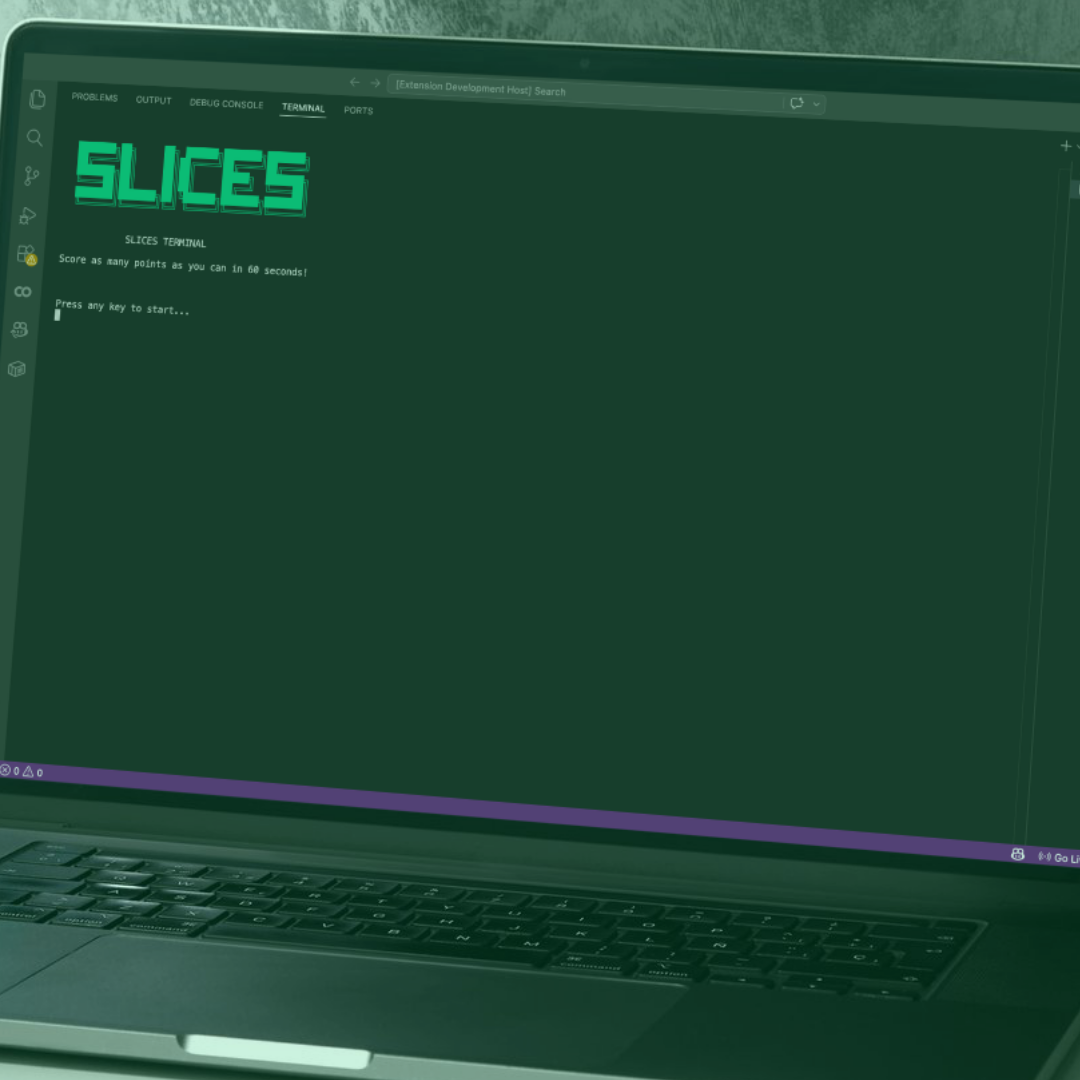
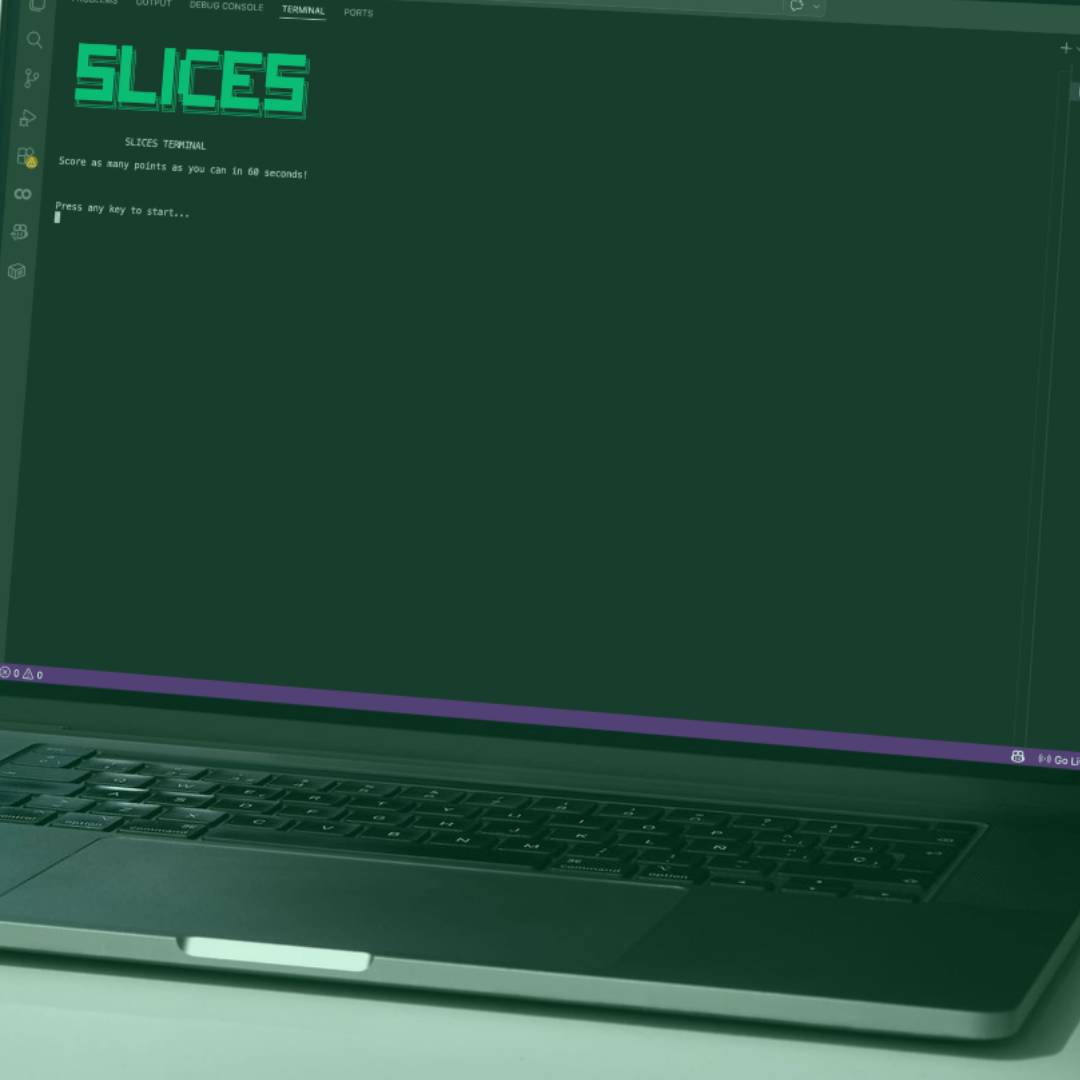
idk man this sucks

diff --git a/src/styles/global.css b/src/styles/global.css
@@ -273,33 +273,32 @@ footer {
 }
 
 .about-para {
-    font-size: 1rem;
-    margin-left: 0.5rem;
-    line-height: 1.6;
-    margin-bottom: 1rem;
-    color: var(--text);
+    max-width: 65ch;
+    margin-bottom: 1.25rem;
+    color: #222;
+    font-size: 1.05rem;
+    line-height: 1.75;
+}
+
+.about-head {
+    font-size: 1.4rem;
+    margin-top: 2.5rem;
+    margin-bottom: 0.75rem;
+    font-weight: 600;
 }
 
 .about-list {
     font-size: 1rem;
     line-height: 1.6;
-    padding-left: 1.5rem;
+    padding-left: 1.25rem;
     margin-bottom: 1rem;
     color: var(--text);
-    margin-left: 0.5rem;
-}
-
-.about-head {
-    font-size: 1.75rem;
-    margin-top: 2rem;
-    margin-bottom: 1rem;
-    font-weight: 600;
 }
 
 .about-para a {
     color: var(--accent);
     text-decoration: none;
-    font-weight: bold
+    font-weight: bold;
 }
 
 .about-list-head {
@@ -308,6 +307,27 @@ footer {
     margin-bottom: 0.5rem;
     font-weight: 500;
     margin-left: 0.5rem;
+}
+
+.about {
+    max-width: 75ch;
+    margin: 0 auto;
+    position: relative;
+    padding-left: 1.5rem;
+    text-align: left;
+    
+}
+
+.about::before {
+    content: "";
+    position: absolute;
+    left: 0;
+    top: 0;
+    width: 3px;
+    height: 100%;
+    background: var(--accent);
+    opacity: 0.35;
+    border-radius: 2px;
 }
 
 .projects-grid {
@@ -573,4 +593,23 @@ footer {
 .pixel-me:hover .pixel-img {
   transform: translateY(-10px);
   content: url('/pixel-me-2.png'); /* swap image on hover */
+}
+
+.tag-row {
+    display: flex;
+    flex-wrap: wrap;
+    gap: 0.5rem;
+}
+
+.tag {
+    padding: 0.4rem 0.75rem;
+    border-radius: 999px;
+    background: #eee;
+    font-size: 0.9rem;
+}
+
+.about-lead {
+    font-size: 1.25rem;
+    font-weight: 500;
+    margin-bottom: 1rem;
 }